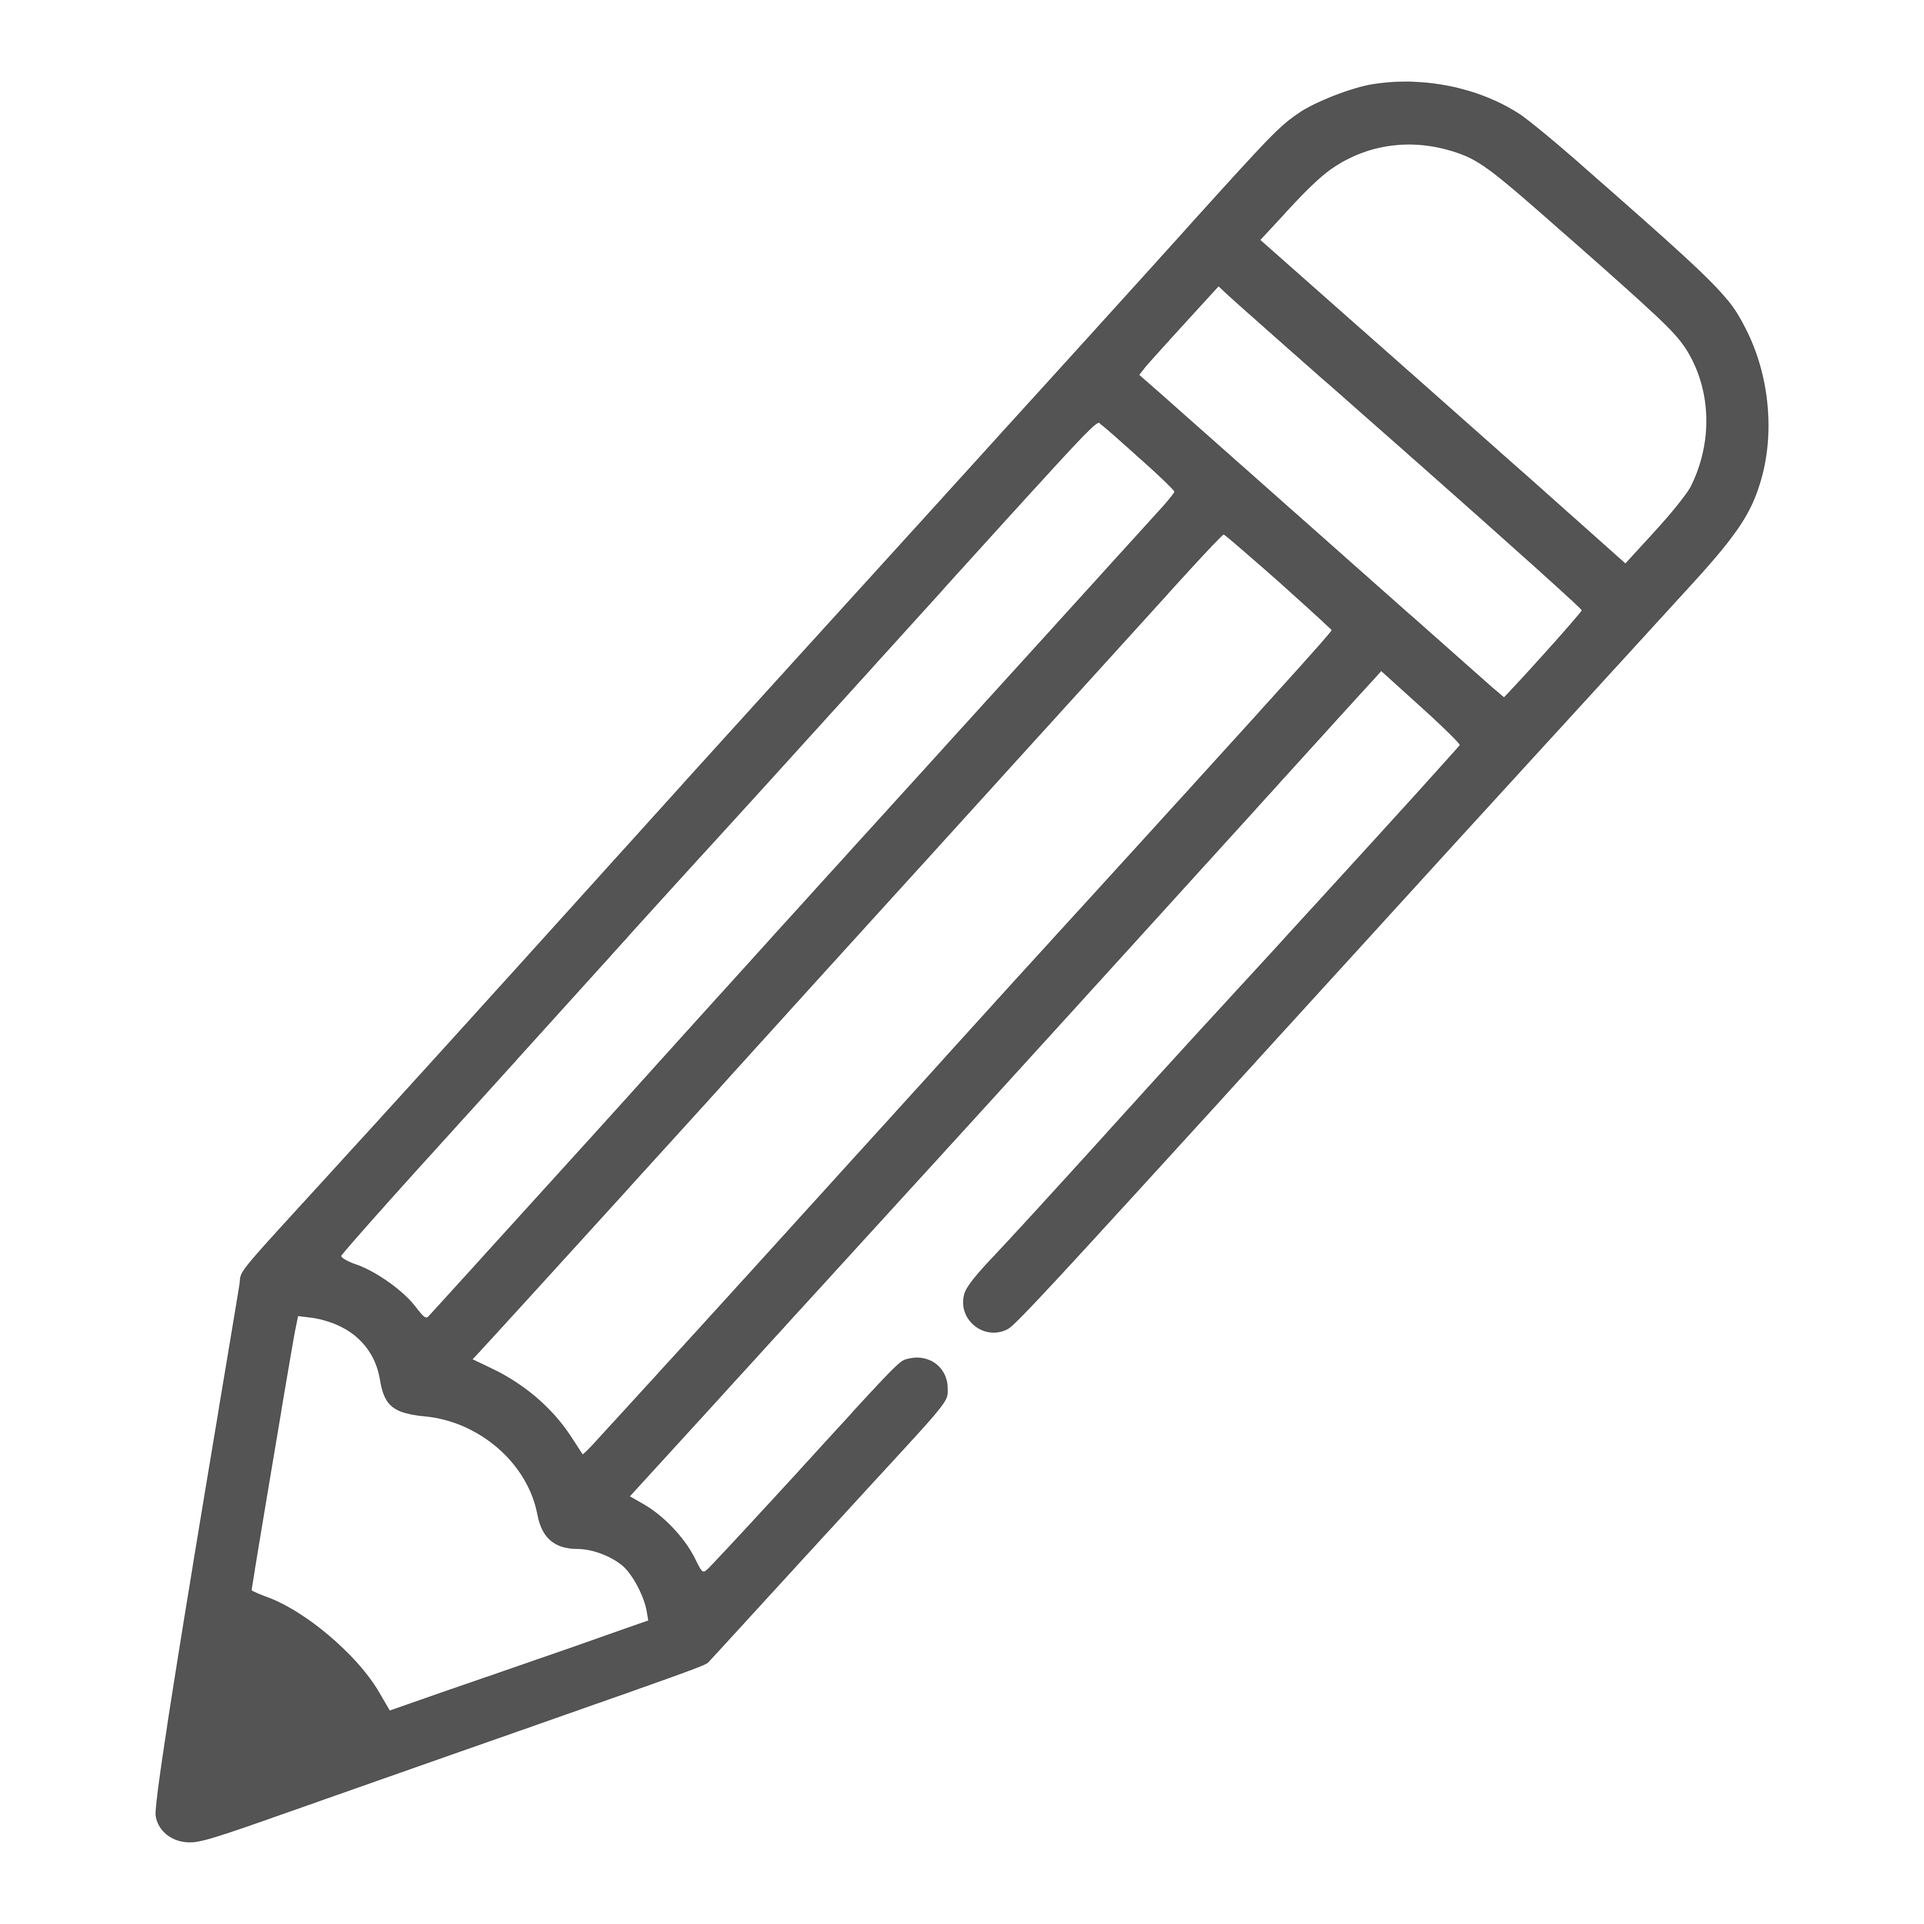
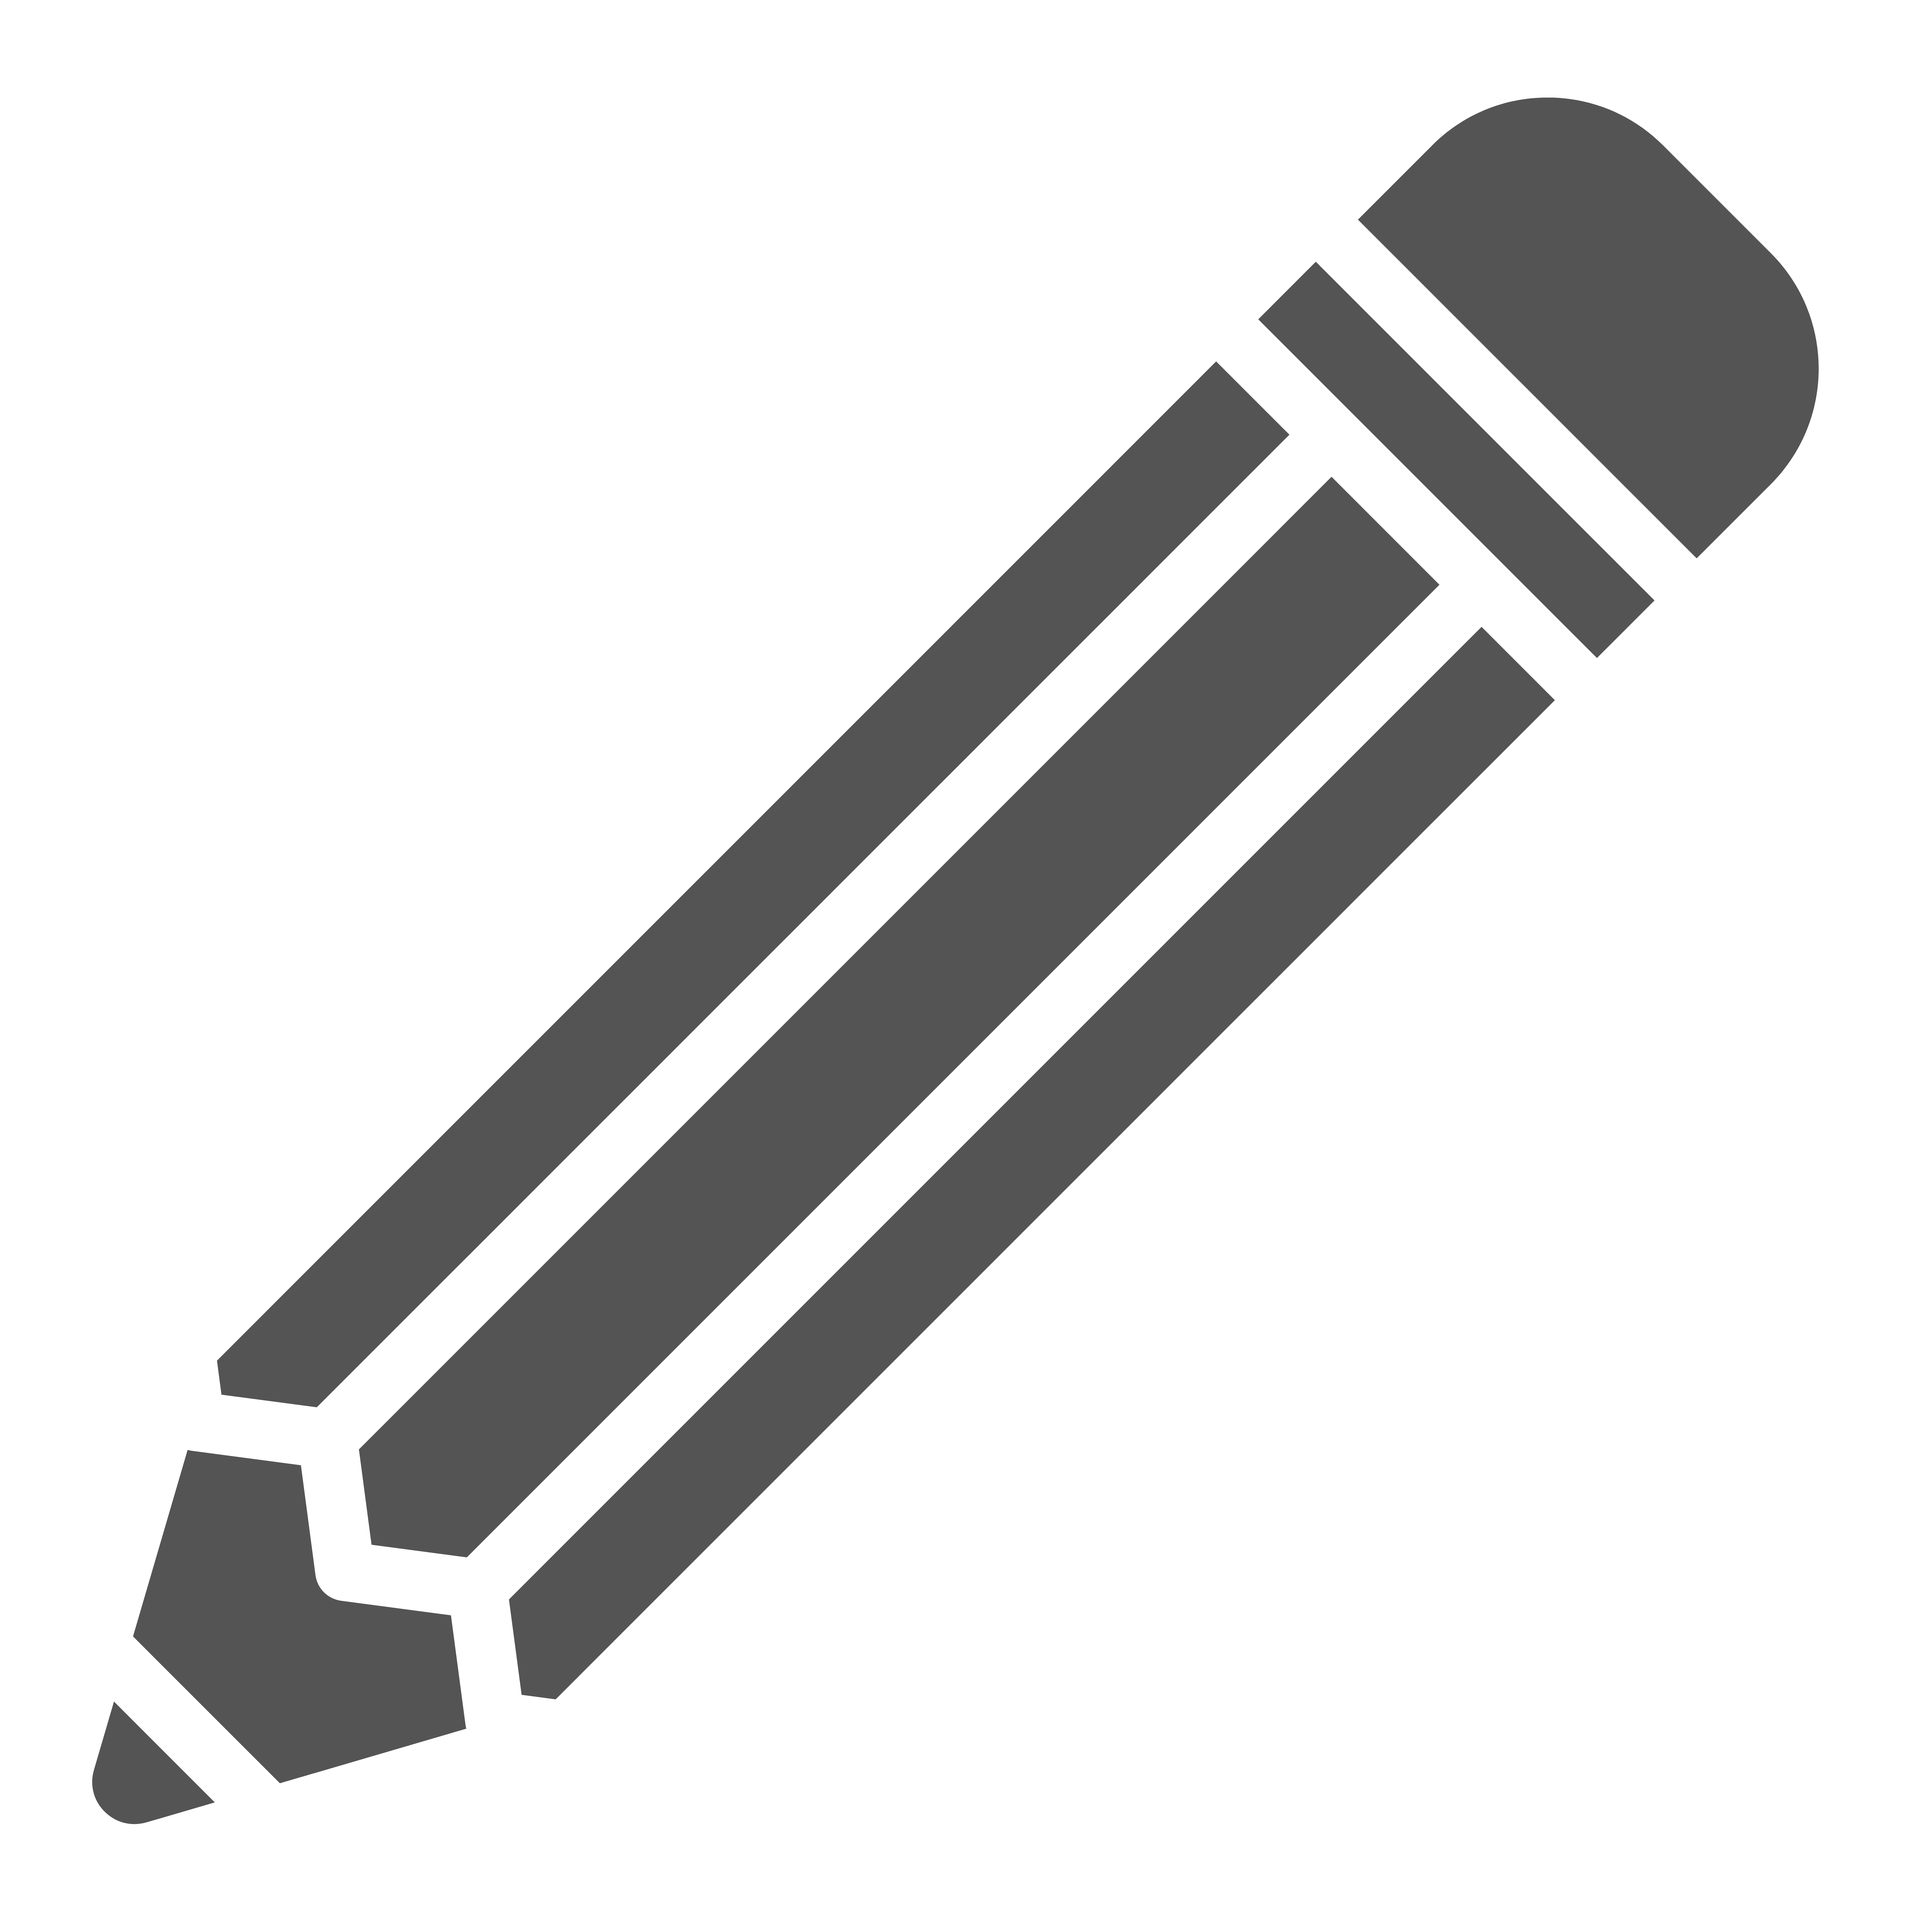
change pencil

Changed region(s): [[0.0312, 0.0312, 0.9672, 0.9672], [0.7488, 0.2496, 0.78, 0.2808]]

diff --git a/frontend/src/components/NavigationBar.jsx b/frontend/src/components/NavigationBar.jsx
@@ -42,11 +42,11 @@ export default function NavigationBar() {
 
             <Nav.Link as={NavLink} to="/create" className="venture-nav-link">
               <img
-                src="/create.png"
-                alt="A plus button to indicate create"
+                src="/pencil.png"
+                alt="A pencil button to indicate create, edit, and delete"
                 className="venture-nav-icon"
               />
-              Create + Edit
+              Curate
             </Nav.Link>
 
             <Nav.Link as={NavLink} to="/profile" className="venture-nav-link">
